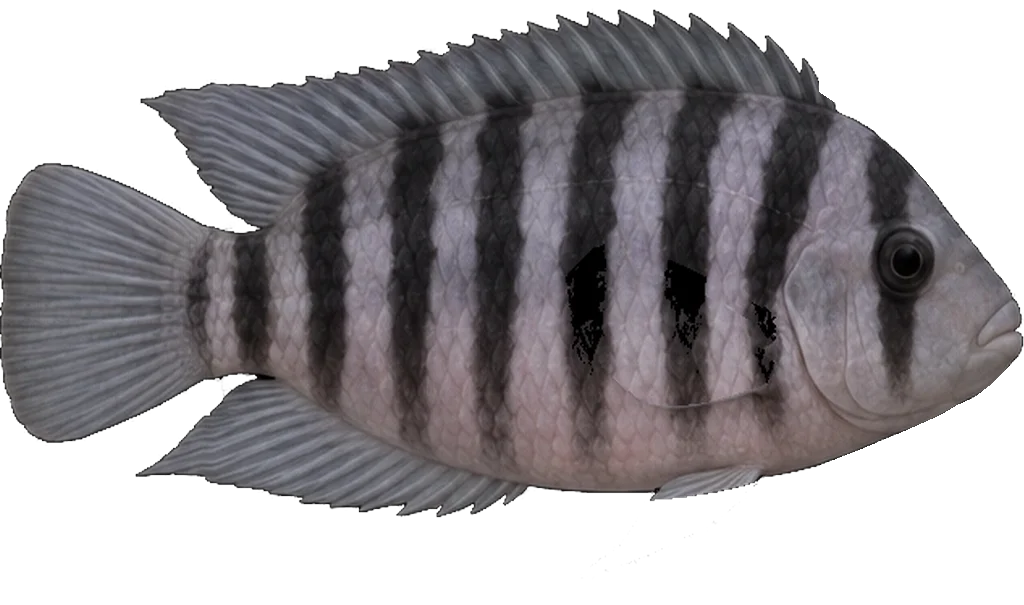
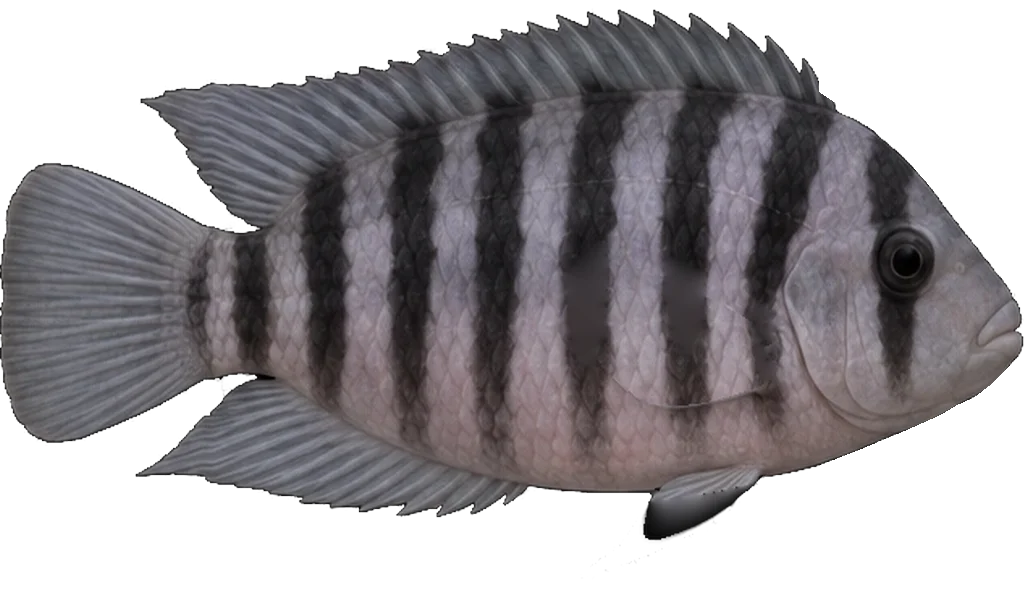
Card sheet: fill black flank holes where the finless flank was pasted in (convict)
The finless card sheet left dark stripe pixels pure black where it replaced the pectoral; the cutout read them as background, so the
body texture had black holes. fish-build.py fills black pixels inside the pasted-in area (card sheet differs from the fin sheet,
eye excluded) and their dark rim from the surroundings (harmonic fill), for every card_sheet build. Convict rebuilt: 4997 px filled.
Cherry barb's stalk collar was already gone with the tail blend (697b9f2e). Method row 61 (7).

diff --git a/scripts/fish-build.py b/scripts/fish-build.py
@@ -136,7 +136,28 @@ common = ['--aspect', asp, '--clip-head', spec.get('clip_head', 25), '--alo', al
 if spec.get('solid', 5): common += ['--solid', spec.get('solid', 5)]   # opaque inside the fish silhouette (method row 45); 'solid': 0 = brightness alpha only
 side_card = os.path.join(work, 'side_full.png')
 if spec.get('card_sheet'):   # the body card from a sheet whose panel 1 has the paired fins replaced by the finless flank (the 3D fins draw themselves); the fin card keeps them
-    cs_ = Image.open(spec['card_sheet']).convert('RGB'); sqc = Image.new('RGB', (N, N)); sqc.paste(cs_.crop((0, 0, cs_.width, sy1 + 8)), (0, 0))
+    cs_ = Image.open(spec['card_sheet']).convert('RGB')
+    # flank holes (convict, 2026-11-24): where the finless flank replaced the pectoral, dark stripe pixels came out pure black, and the cutout
+    # reads pure black as background: holes in the body texture. Pixels black on the card sheet but not on the fin sheet are filled from
+    # their surroundings (harmonic fill: each pass, every hole pixel takes the mean of its filled neighbours)
+    ca_ = np.asarray(cs_).astype(float); sa_ = np.asarray(sheet).astype(float)
+    if ca_.shape == sa_.shape:
+        from scipy import ndimage as nd_
+        pasted_ = nd_.binary_dilation(np.abs(ca_ - sa_).max(2) > 30, iterations=15)   # where the finless flank was pasted in (the pectoral's place)
+        body_ = nd_.binary_fill_holes(nd_.binary_closing(sa_.max(2) > 40, iterations=3))   # inside the fish (black not reaching the background)
+        hole_ = (ca_.max(2) < 14) & pasted_ & body_; hole_[sy1 + 8:] = False
+        ex_, ey_, er_ = spec['eye']; yy_, xx_ = np.ogrid[:hole_.shape[0], :hole_.shape[1]]; hole_ &= (xx_ - ex_) ** 2 + (yy_ - ey_) ** 2 > (2.5 * er_) ** 2   # never the pupil
+        hole_ = nd_.binary_dilation(hole_, iterations=3) & body_ & (ca_.max(2) < 60)   # and its dark anti-aliased rim, so the fill does not take its colour
+        if hole_.any():
+            known_ = (~hole_).astype(float); img_ = ca_ * known_[..., None]; k_ = np.array([[0, 1, 0], [1, 0, 1], [0, 1, 0]], float)
+            ys_, xs_ = np.nonzero(hole_); y0h_, y1h_, x0h_, x1h_ = max(0, ys_.min() - 2), ys_.max() + 3, max(0, xs_.min() - 2), xs_.max() + 3
+            sub_ = img_[y0h_:y1h_, x0h_:x1h_].copy(); w_ = known_[y0h_:y1h_, x0h_:x1h_].copy(); hs_ = hole_[y0h_:y1h_, x0h_:x1h_]
+            for _ in range(400):
+                num_ = np.dstack([nd_.convolve(sub_[..., c] * w_, k_, mode='nearest') for c in range(3)]); den_ = nd_.convolve(w_, k_, mode='nearest')
+                upd_ = hs_ & (den_ > 0); sub_[upd_] = num_[upd_] / den_[upd_, None]; w_[upd_] = 1.0
+            ca_[y0h_:y1h_, x0h_:x1h_] = np.where(hs_[..., None], sub_, ca_[y0h_:y1h_, x0h_:x1h_])
+            cs_ = Image.fromarray(np.clip(ca_, 0, 255).astype(np.uint8)); print('card sheet: %d black flank px filled' % hole_.sum())
+    sqc = Image.new('RGB', (N, N)); sqc.paste(cs_.crop((0, 0, cs_.width, sy1 + 8)), (0, 0))
     side_card = os.path.join(work, 'side_full_card.png'); sqc.save(side_card)
 FO = spec.get('fin_opacity')   # per-fin opacity profiles (method row 61): the card keeps coverage only, scripts/fish-fin-opacity.py writes the maps below
 mem = ['--membrane', ','.join(map(str, spec['membrane']))] if spec.get('membrane') and FO is None else []   # see-through median fins (method row 61): body card only, the fin card feeds the paired fins, which get their own membrane in textures.ts

diff --git a/research/fish-model-sheet-method.md b/research/fish-model-sheet-method.md
@@ -308,7 +308,7 @@ Each line was a mistake that reached Nathan once. Look for it in the step G rend
 | 58 | Saturation was a hand step per fish (rows 22, 48): measure the render, decide `sat`, rebuild. Nathan 2026-11-24: "lets build it in" | `sat` does not scale the card one for one (tailspot: sat 0.78 lowered the card's mid-body saturation only 15 %; the lighting then boosts it 1.40x), so one division undershoots | `scripts/fish-autosat.py <id> [--apply]`: headless side render (`scripts/fish-autoshot.mjs`, own vite + Chrome, no Browser pane), mean HSV saturation of the mid-body patch (38-62 % of length, middle 40 % of height per column) on the render and on the sheet's row 1, secant steps on `sat` until within 6 %. `fish-new.py` runs it last (`--no-autosat` skips it); a hand-set `sat` is never overridden (`--force` to re-measure); auto values carry `sat_auto` and are re-measured on rebuild. Measured (sat as set): ram 1.19, tailspot 1.18 (hand 0.78), gramma 1.11, gourami 1.16. Limit as row 54: one global factor, no hue-selective fix. Bug found on the way: `fish-cutout-card.py` took the card's alpha from the DESATURATED colours, so lower sat made dark saturated parts see-through (gramma at 0.72: a hole in the dorsal eyespot). Alpha now comes from the sheet's own colours; sat changes colour only. Fish built earlier with sat < 1 (oscarb, pepperedcoryb, bichirb, ...) pick this up on their next rebuild | Dwarf gourami: sat 1.00 -> 0.80 -> 0.65, render/sheet 1.16 -> 1.07 -> 0.99; stripes rust-red like the sheet instead of hot red: `shots/dwarfgouramib-autosat.jpg`. Applied 2026-11-24: ram 1.00 -> 0.77 (1.19 -> 0.98), royal gramma 1.00 -> 0.72 (1.11 -> 1.03), tailspot 0.78 -> 0.60 (1.19 -> 0.96): `shots/autosat-three.jpg` |
 | 59 | Making sheets by hand was the slowest Nathan step: new chat, paste, download, rename, save into the right folder (2026-11-24) | The OpenAI image API would bypass Nathan's ChatGPT plan (billed separately), and driving chatgpt.com with a browser agent is against OpenAI's terms and costs screenshot tokens | `scripts/sheet-queue.py --all` (or folders): for each `*-gen` folder with `prompt.txt` and no `sheet.webp`, copies the prompt to the clipboard, opens a new ChatGPT chat, waits for the next image in Downloads and files it as `sheet.webp` (lossless; the download kept as `sheet-download.<ext>`, `sheet.json` records it). s skip, r reopen, q quit, `--redo` keeps the old sheet as `sheet-prev-<n>.webp`. Nathan's part per fish: Ctrl+V, Enter, click download. So the prompts for a batch must be written first (`fishshapes.py` + `fish-prompt-fill.py`) | Tested with fake folders and a fake Downloads folder: two sheets filed in order, an older download ignored, pixel-exact |
 | 60 | "the bichir problem didnt really get better, is this because we made it slimmer but are trying to keep the same fins?" ... "do the body-only stretch" ... "mind the weirdness going on" (Nathan, 2026-11-24) | The median stretch resized whole sheet rows, fins included: the bichir's finlets and anal fin came out a third lower, so the renderer's fixed allowances (rows 57, 59) showed as slabs; a real fish's fins do not shrink with a slimmer body. First body-only try: row 1's body edge came from row 5 placed by its box (ran inside the front finlet: doubled it), and the pectoral past the belly cut the grey short (body read 114 vs 164 px deep there: a block on the back, the earlier notch), and the pectoral crossing the belly line was bent | `fish-sheet-stretch.py` body-only by default (`--whole` = old): per column, the body scales by k about its centre, everything above the back / below the belly moves with it unscaled; row 1 snaps to its own outline within 8 px of the map's edge (everywhere but under fins); edges bridged across columns where a paired fin touches them; pectoral / pelvic moved whole by the shift at their root (rows 1 and 5). Row 4 still scaled whole, row 3 untouched. Bichir rebuilt (10.9 % SL, mass 1.33x): no anal slab, finlets on the back at drawn size, no tail step. Left: a small bump where the caudal's top edge meets the body; the plain snout (row 54-style lips / nostril tubes). All 12 other stretched build-B fish rebuilt the same day with the body-only stretch (built depth within 4 % of target; no breakage; fins back to drawn size, the tailspot needed no stretch at 22.9 %) | `shots/bichirb-r60.jpg`, `shots/rule60-before-after.jpg` |
-| 61 | "complete lack of transparency in fins" (Nathan, 2026-11-24), then the ChatGPT review "Method B: fin transparency" (stages 1-4: fix the betta's body/tail overlap, coverage separate from opacity with true blending, per-fin profiles, rays from the sheet's own painting; pigment later). Mid-way, convict: "the actual flesh to fin boundary is this red line, not what you have now. we need a way to reliably get this correct" | (1) Proof of concept (0b9b1e6b, `membrane` key): fin alpha lowered on the body card; under alpha-to-coverage / the 0.5 cutout, fins under ~50 % lost their edge, the stand-out line jumped inward, and the betta showed a dark block at the tail base. (2) The block was geometry: `ped` (SL end) sat on the tail rays, so the solid filled the fin root. ped came from panel 2's finless body, which ChatGPT draws with the stalk running on (convict +36 px, betta +55 px, neon +6, cherry barb 0). Texture cues tried first and dropped: the rays-to-scales step traced where the betta's fanned rays converge; orientation coherence is as high on the convict's stripes and the betta's scale rows as on rays. Panel 5's grey body (the fin map, laid on panel 1 by its silhouette box) lands on the scale edge on all four sheets, convict curve included. `fish-stalk-edge.py` takes the edge from it: the new ped, the stalk depth (spec `stalk` overrides: [top, bottom] % SL at 100 % SL, eased in from 80 %), and the curve (`render.photo.stalkEdge`) for the opacity mask. Betta: auto [403, 155] vs hand [398, 158]; stalk 9.2 / 9.2 vs hand 10 / 9.5. (3) Spec `fin_opacity` ({} = defaults by fin type; per-fin or `all`: `membrane` / `rays` as [root, tip]) turns on `fish-fin-opacity.py`: the card's alpha stays coverage, grey maps `<id>-op.webp` (median fins, body card) and `<id>-finop.webp` (paired fins, fin card) hold the material opacity = membrane(g) + (rays(g) - membrane(g)) x ray confidence, g root to edge. Ray confidence: Hessian line strength at two scales, abs of the eigenvalues so dark and bright rays count the same, kept where the line runs root-to-edge (within ~45 deg; bands and folds across it dropped), continuous 0-1; the outline is filled with the nearest fin colour first so the fin edge does not read as a ray. Fins ease in from the body over 3 % SL. (4) Runtime: such fish's fins use `cardMaterial(..., opacity)`: alphaMap + true blending (alphaTest 0.02, depth written); the stand-out line is drawn from the map's alpha before alphaMap, so it stays on the real outline; outside the fin the maps hold 0.5 + 0.5 x the nearest fin opacity (a clear fin's line is fainter, never gone). Fish without maps are untouched: gbrb, royal gramma, oscar B and the drawn betta are pixel-identical before / after (32 real-GPU shots, max diff 0). (5) Tests in the Browser pane (GPU, MSAA 4), `scripts/fin-shots.js`: dark and light tank, side, three-quarter, near edge-on, from below (paired fins over the body and each other), three of a kind overlapping in depth. Not the headless autoshot (SwiftShader): its alpha-to-coverage differs. Profiles used: betta all membrane [0.85, 0.55] rays [0.97, 0.8]; convict dorsal / anal membrane [0.8, 0.45], pectoral [0.4, 0.2]; cherry barb all [0.65, 0.35], pectoral [0.45, 0.25]; neon all [0.45, 0.2] rays [0.8, 0.5], pectoral [0.3, 0.15]. (6) "could we have a merge transition between body solid and fin transparent so its not as jarring" (Nathan, same day): the solid ended in a hard cap (dark line on the convict, a collar on the cherry barb). Plan `tailBlend` (0.05, set for fish with opacity maps): the solid's last 5 % of TL fades out by alpha to coverage (vertex alpha; stays in the opaque pass, no sorting), the card's body cut starts that much further forward so its own painting of the stalk shows through, and the fins ease in over 3 % SL + 30 % of their own root-to-edge length. Unchanged fish still pixel-identical. Later (stage 5): pigment bands opaque where rays are not. |
+| 61 | "complete lack of transparency in fins" (Nathan, 2026-11-24), then the ChatGPT review "Method B: fin transparency" (stages 1-4: fix the betta's body/tail overlap, coverage separate from opacity with true blending, per-fin profiles, rays from the sheet's own painting; pigment later). Mid-way, convict: "the actual flesh to fin boundary is this red line, not what you have now. we need a way to reliably get this correct" | (1) Proof of concept (0b9b1e6b, `membrane` key): fin alpha lowered on the body card; under alpha-to-coverage / the 0.5 cutout, fins under ~50 % lost their edge, the stand-out line jumped inward, and the betta showed a dark block at the tail base. (2) The block was geometry: `ped` (SL end) sat on the tail rays, so the solid filled the fin root. ped came from panel 2's finless body, which ChatGPT draws with the stalk running on (convict +36 px, betta +55 px, neon +6, cherry barb 0). Texture cues tried first and dropped: the rays-to-scales step traced where the betta's fanned rays converge; orientation coherence is as high on the convict's stripes and the betta's scale rows as on rays. Panel 5's grey body (the fin map, laid on panel 1 by its silhouette box) lands on the scale edge on all four sheets, convict curve included. `fish-stalk-edge.py` takes the edge from it: the new ped, the stalk depth (spec `stalk` overrides: [top, bottom] % SL at 100 % SL, eased in from 80 %), and the curve (`render.photo.stalkEdge`) for the opacity mask. Betta: auto [403, 155] vs hand [398, 158]; stalk 9.2 / 9.2 vs hand 10 / 9.5. (3) Spec `fin_opacity` ({} = defaults by fin type; per-fin or `all`: `membrane` / `rays` as [root, tip]) turns on `fish-fin-opacity.py`: the card's alpha stays coverage, grey maps `<id>-op.webp` (median fins, body card) and `<id>-finop.webp` (paired fins, fin card) hold the material opacity = membrane(g) + (rays(g) - membrane(g)) x ray confidence, g root to edge. Ray confidence: Hessian line strength at two scales, abs of the eigenvalues so dark and bright rays count the same, kept where the line runs root-to-edge (within ~45 deg; bands and folds across it dropped), continuous 0-1; the outline is filled with the nearest fin colour first so the fin edge does not read as a ray. Fins ease in from the body over 3 % SL. (4) Runtime: such fish's fins use `cardMaterial(..., opacity)`: alphaMap + true blending (alphaTest 0.02, depth written); the stand-out line is drawn from the map's alpha before alphaMap, so it stays on the real outline; outside the fin the maps hold 0.5 + 0.5 x the nearest fin opacity (a clear fin's line is fainter, never gone). Fish without maps are untouched: gbrb, royal gramma, oscar B and the drawn betta are pixel-identical before / after (32 real-GPU shots, max diff 0). (5) Tests in the Browser pane (GPU, MSAA 4), `scripts/fin-shots.js`: dark and light tank, side, three-quarter, near edge-on, from below (paired fins over the body and each other), three of a kind overlapping in depth. Not the headless autoshot (SwiftShader): its alpha-to-coverage differs. Profiles used: betta all membrane [0.85, 0.55] rays [0.97, 0.8]; convict dorsal / anal membrane [0.8, 0.45], pectoral [0.4, 0.2]; cherry barb all [0.65, 0.35], pectoral [0.45, 0.25]; neon all [0.45, 0.2] rays [0.8, 0.5], pectoral [0.3, 0.15]. (6) "could we have a merge transition between body solid and fin transparent so its not as jarring" (Nathan, same day): the solid ended in a hard cap (dark line on the convict, a collar on the cherry barb). Plan `tailBlend` (0.05, set for fish with opacity maps): the solid's last 5 % of TL fades out by alpha to coverage (vertex alpha; stays in the opaque pass, no sorting), the card's body cut starts that much further forward so its own painting of the stalk shows through, and the fins ease in over 3 % SL + 30 % of their own root-to-edge length. Unchanged fish still pixel-identical. (7) Convict flank holes: on the finless card sheet, dark stripe pixels where the flank replaced the pectoral came out pure black and the cutout read them as background. `fish-build.py` now fills black pixels inside the pasted-in area (where the card sheet differs from the fin sheet, eye excluded) from their surroundings, with their dark rim, for every `card_sheet` build. The cherry barb's collar at the stalk went with (6). Later (stage 5): pigment bands opaque where rays are not. |
 
 ## 5. Open problems (not solved yet; whoever solves one moves it into sections 3-4)
 
